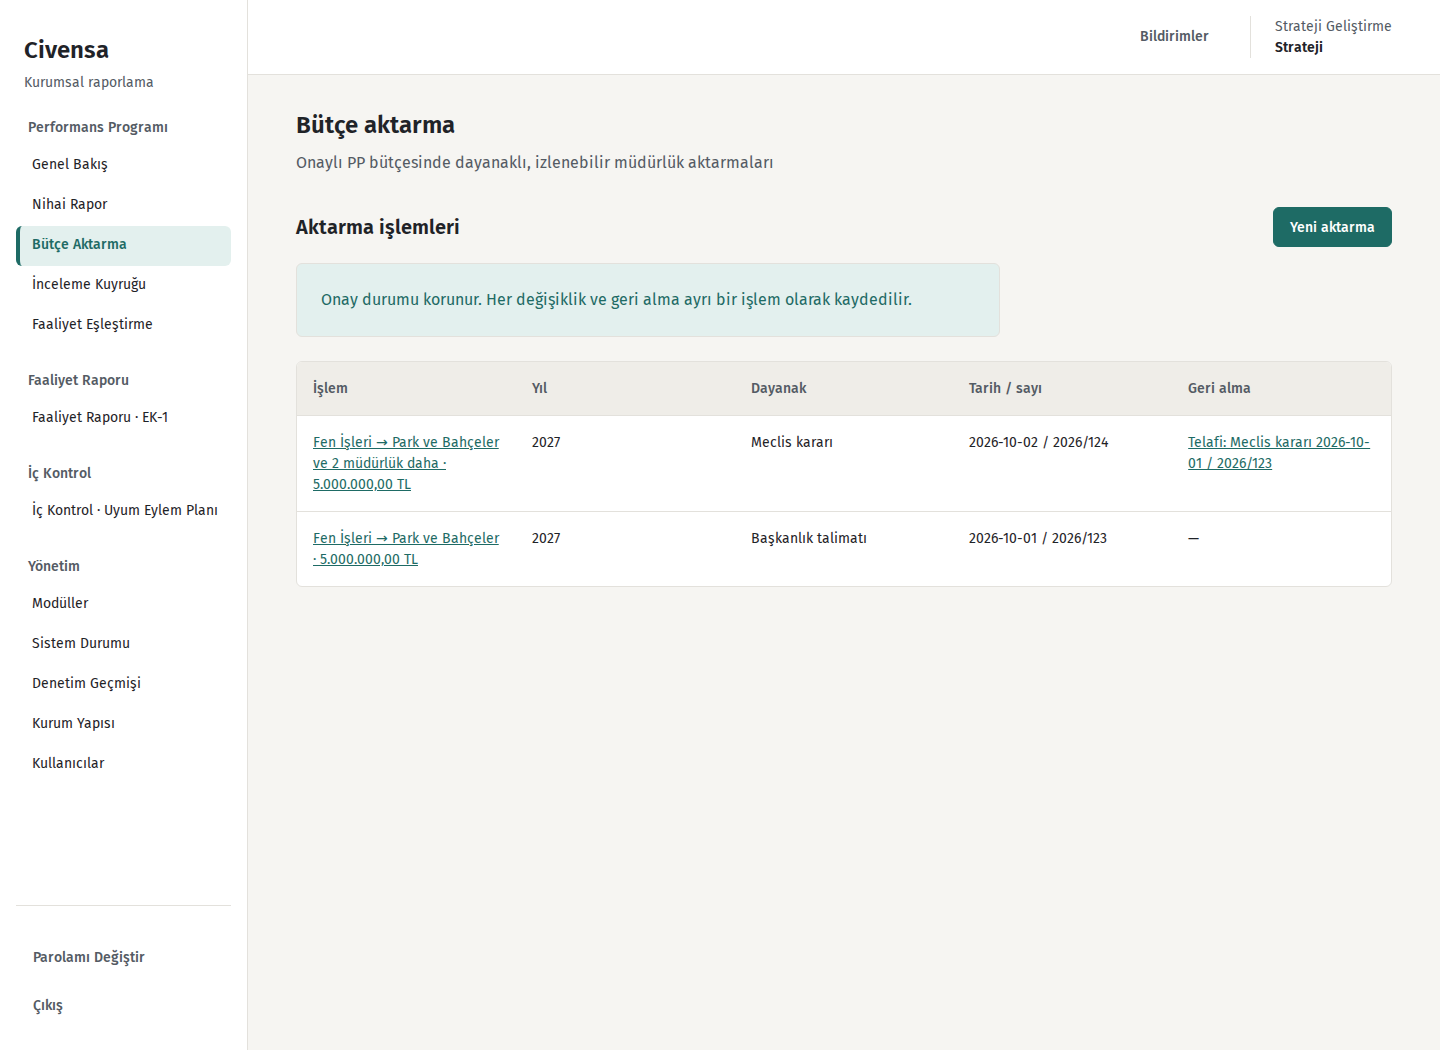
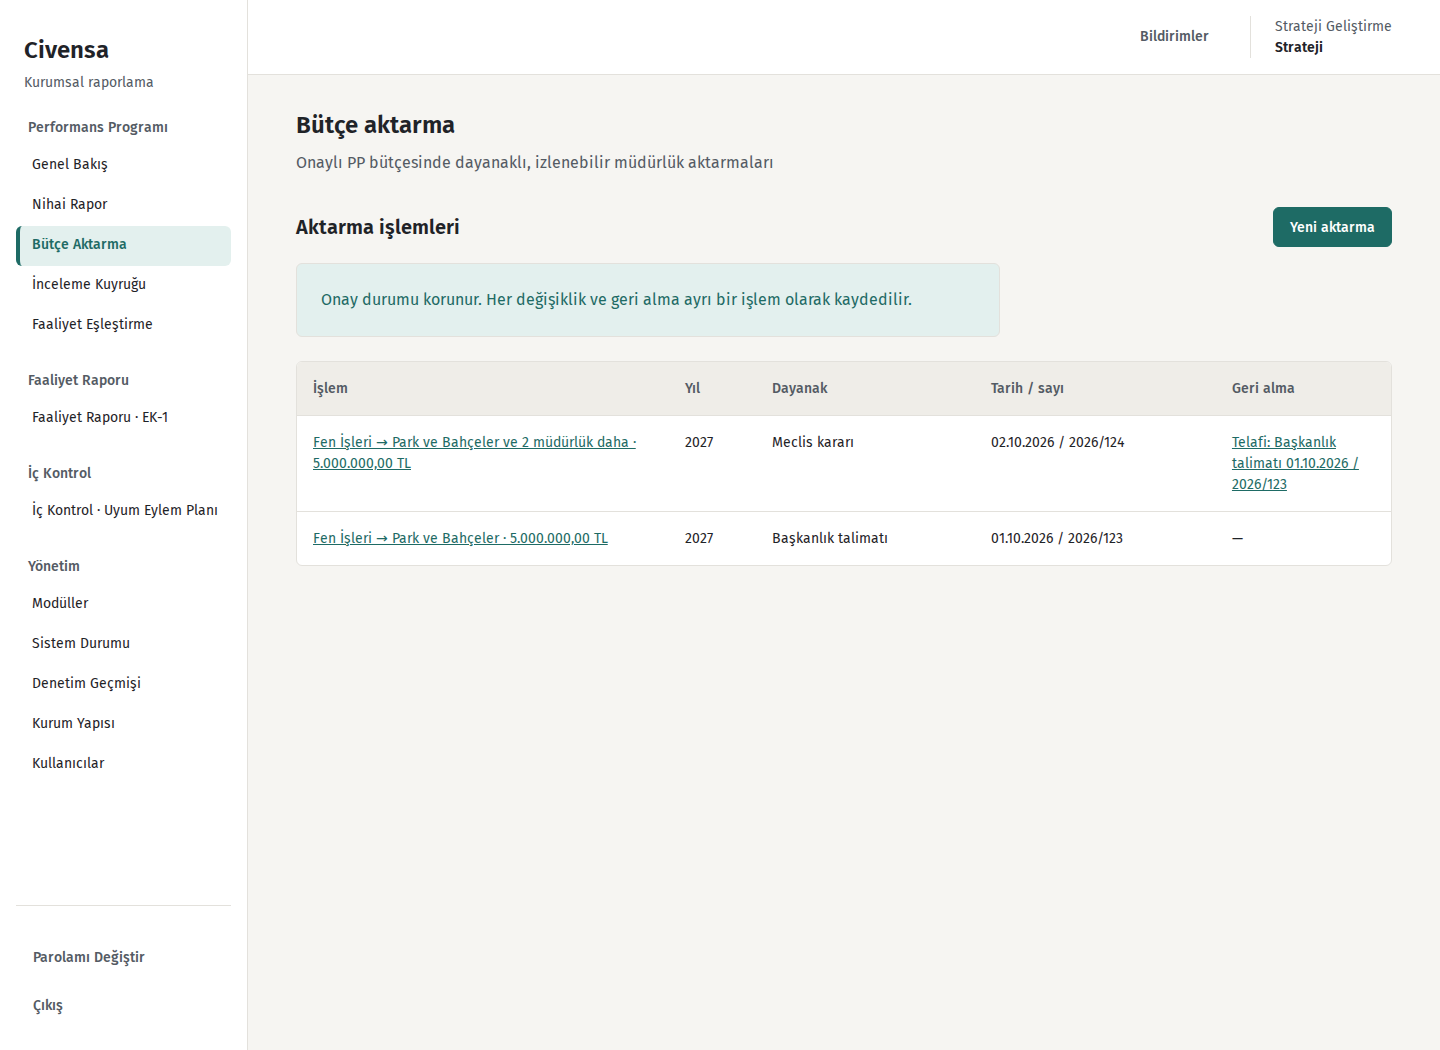
Add CIV-141 regression checks and screenshots

diff --git a/tests/test_budget_reallocation_design.py b/tests/test_budget_reallocation_design.py
@@ -173,7 +173,7 @@ def test_list_summaries_use_operation_lines_and_reference_not_ids(db, http, budg
     visible = ' '.join(Contract(response.text).text)
     assert 'Fen İşleri → Park ve Bahçeler · 5.000.000,00 TL' in visible
     assert 'Fen İşleri → Temizlik İşleri ve 2 müdürlük daha · 5.000.000,00 TL' in visible
-    assert '02.10.2026 / 2026/124' in visible
+    assert '01.10.2026 / 2026/124' in visible
     assert 'Telafi: Başkanlık talimatı 01.10.2026 / 2026/123' in visible
     assert not re.search(r'#\d+', visible)
 
